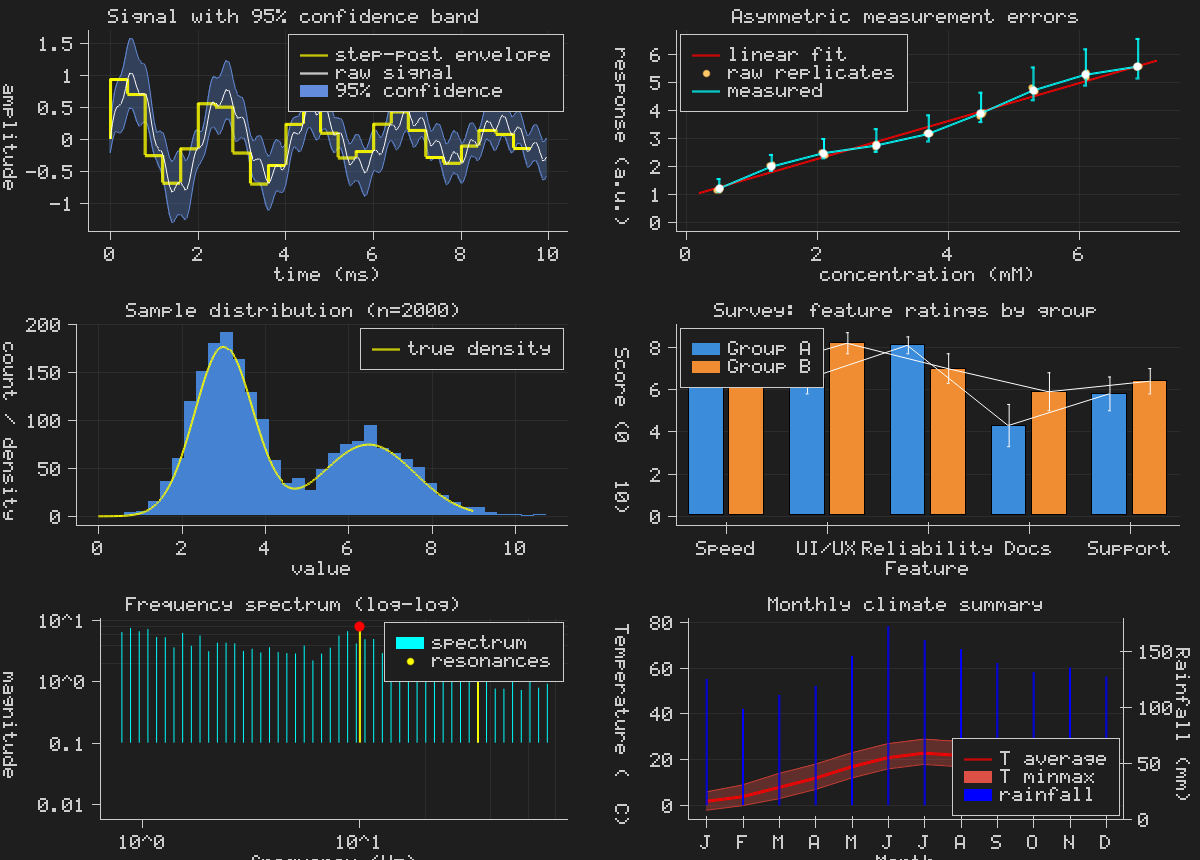
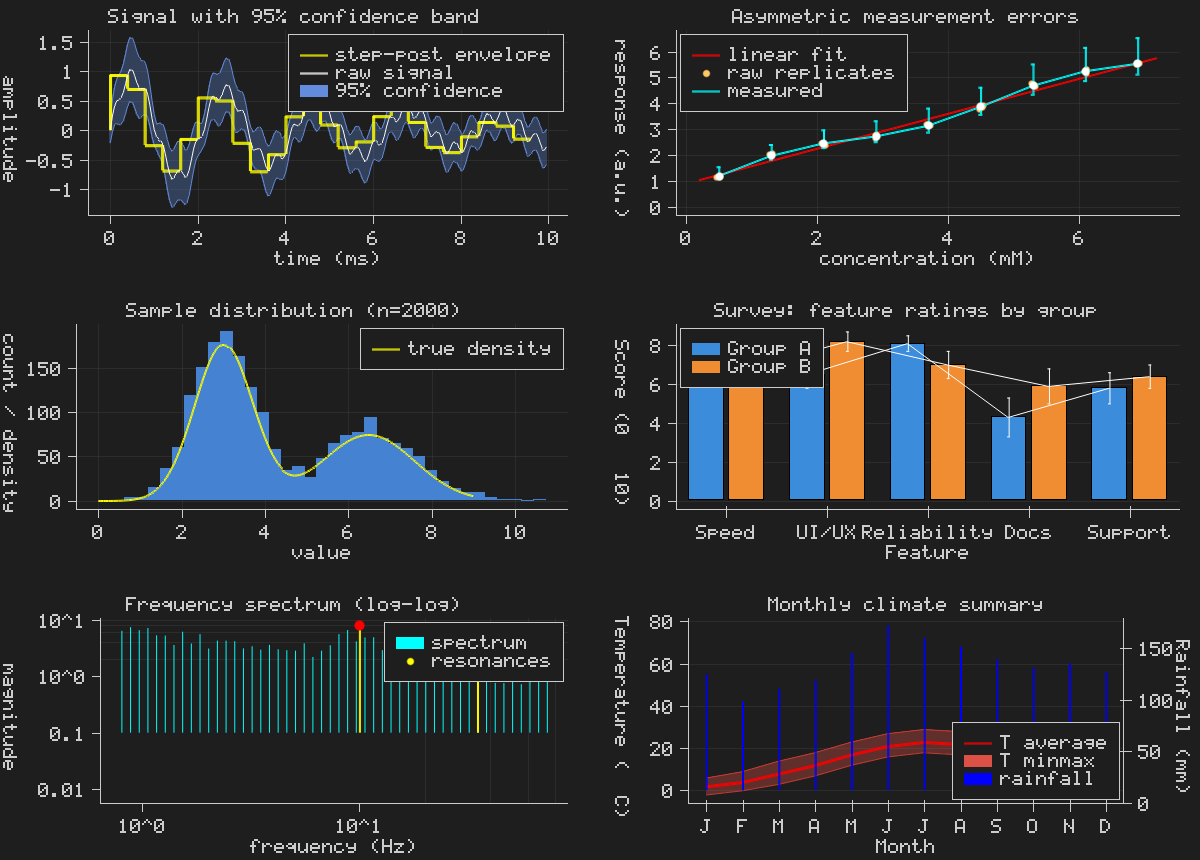
small bug fix

diff --git a/plotmini.h b/plotmini.h
@@ -1913,6 +1913,16 @@ static void plm__render_plot_into(plm_plot *p, plm_fb *fb,
             if (need_right > p->margin_right)
                 p->margin_right = need_right;
         }
+        /* expand bottom margin for x-axis tick labels + label */
+        {
+            int x_th = plm__text_height_s(p->x_axis.font_scale > 0 ? p->x_axis.font_scale : S);
+            int label_h = PLM_FONT_H * S;
+            int need_bottom = tick_len + gap + x_th + gap;
+            if (p->x_label)
+                need_bottom += label_h + gap;
+            if (need_bottom > p->margin_bottom)
+                p->margin_bottom = need_bottom;
+        }
     }
 
     /* 2. compute plot area in pixels (inset from cell by margins) */